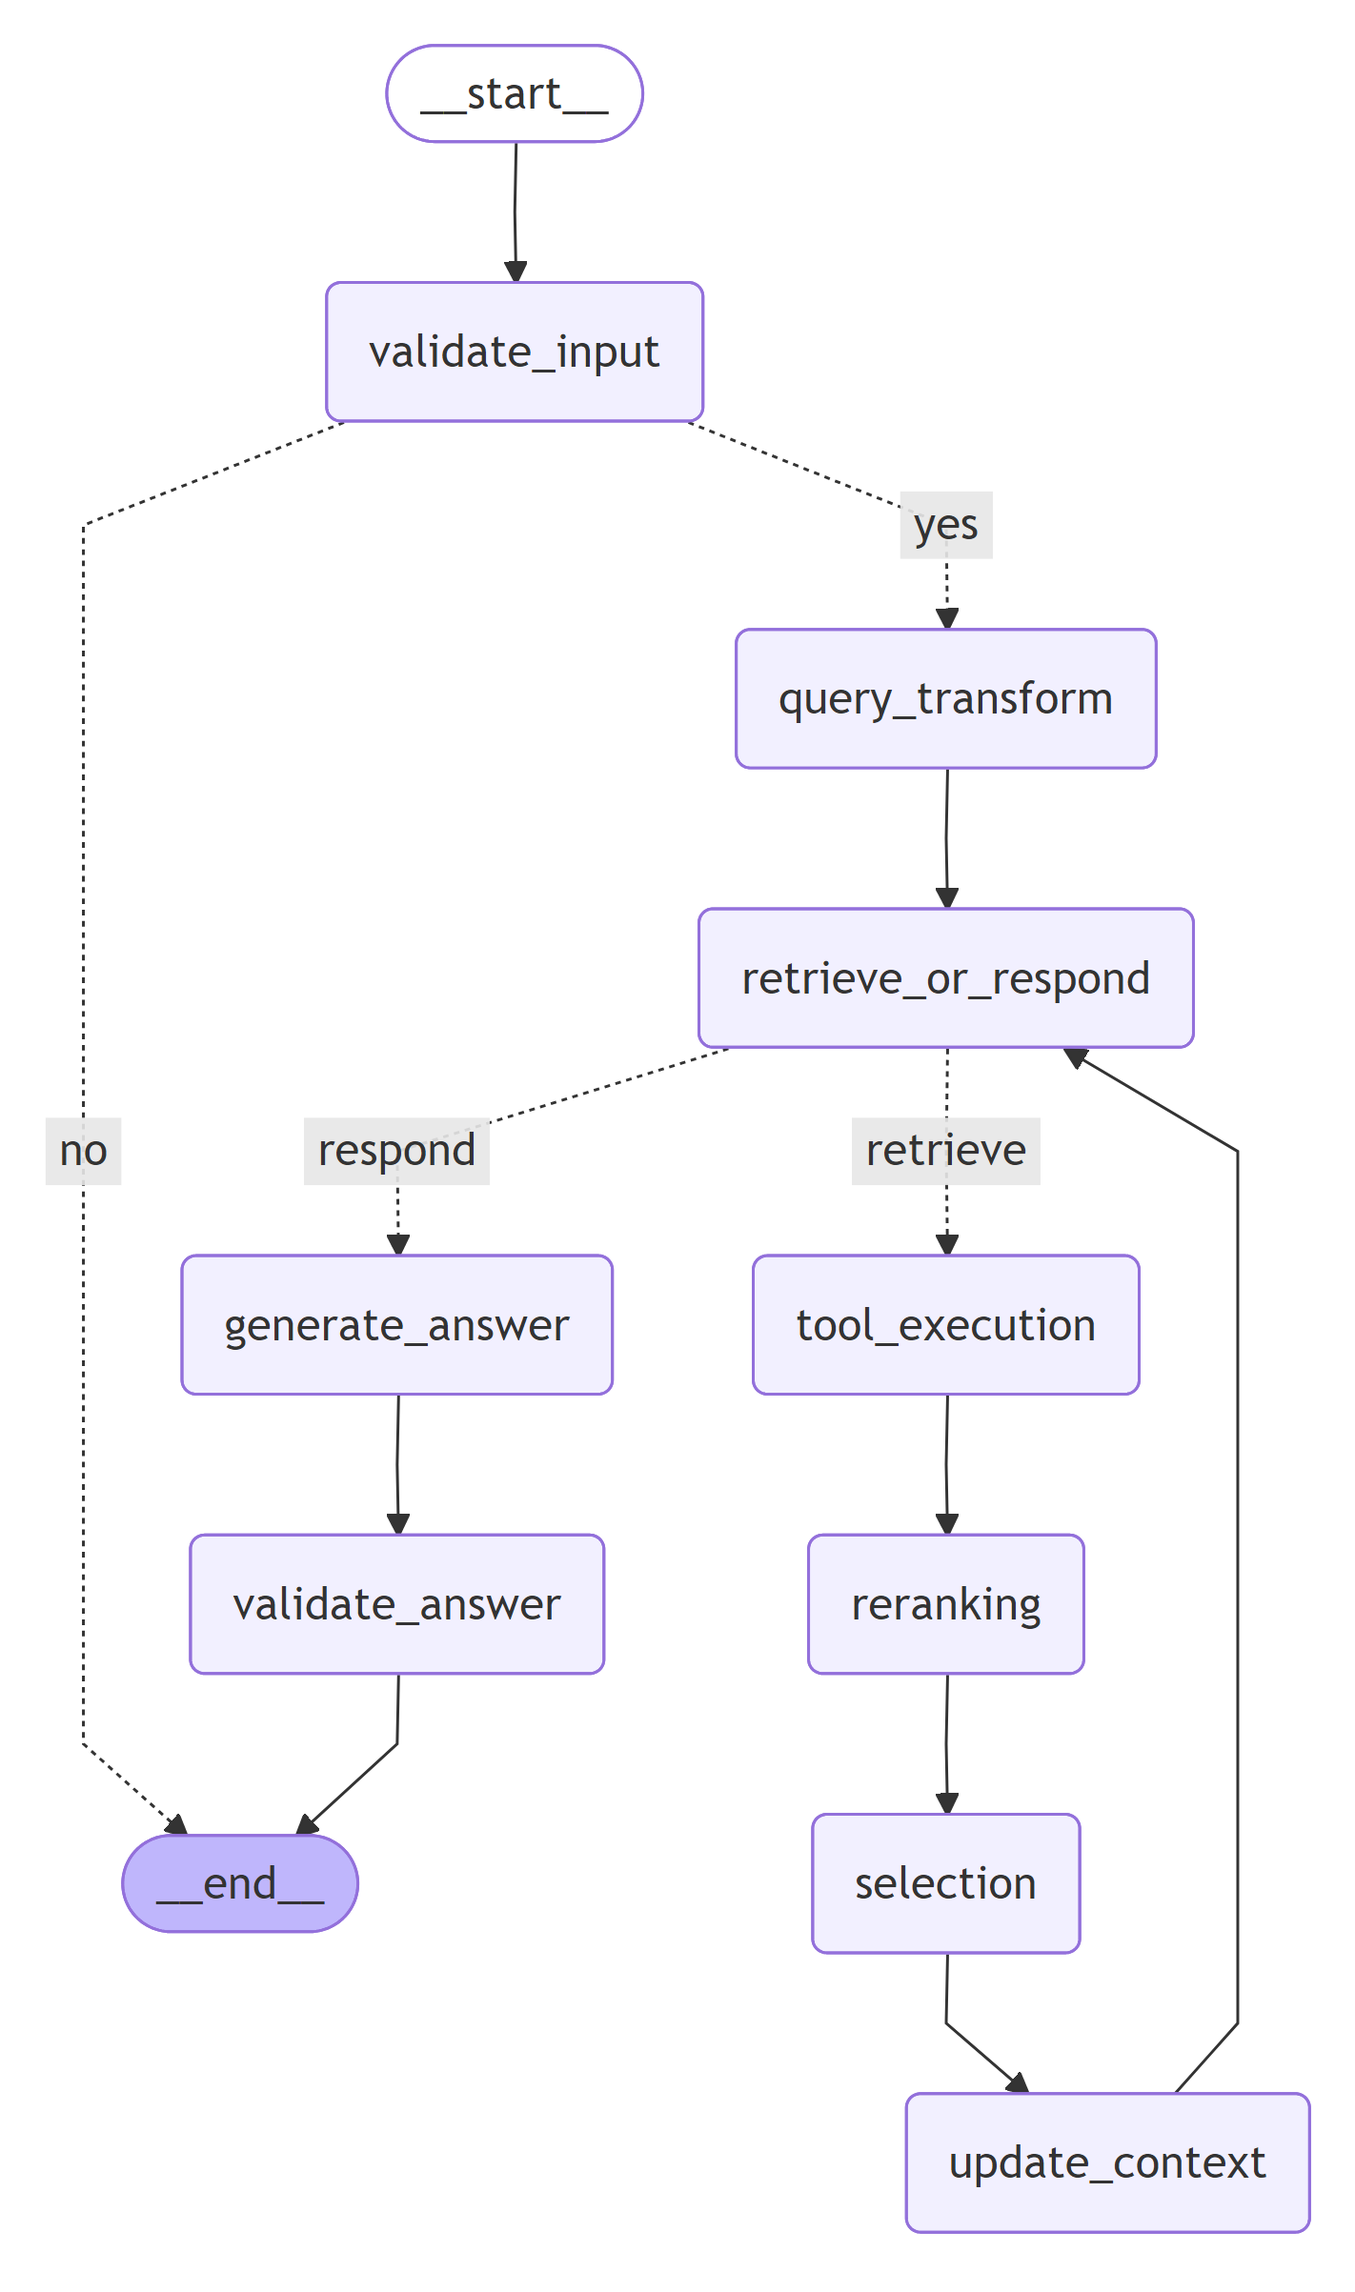
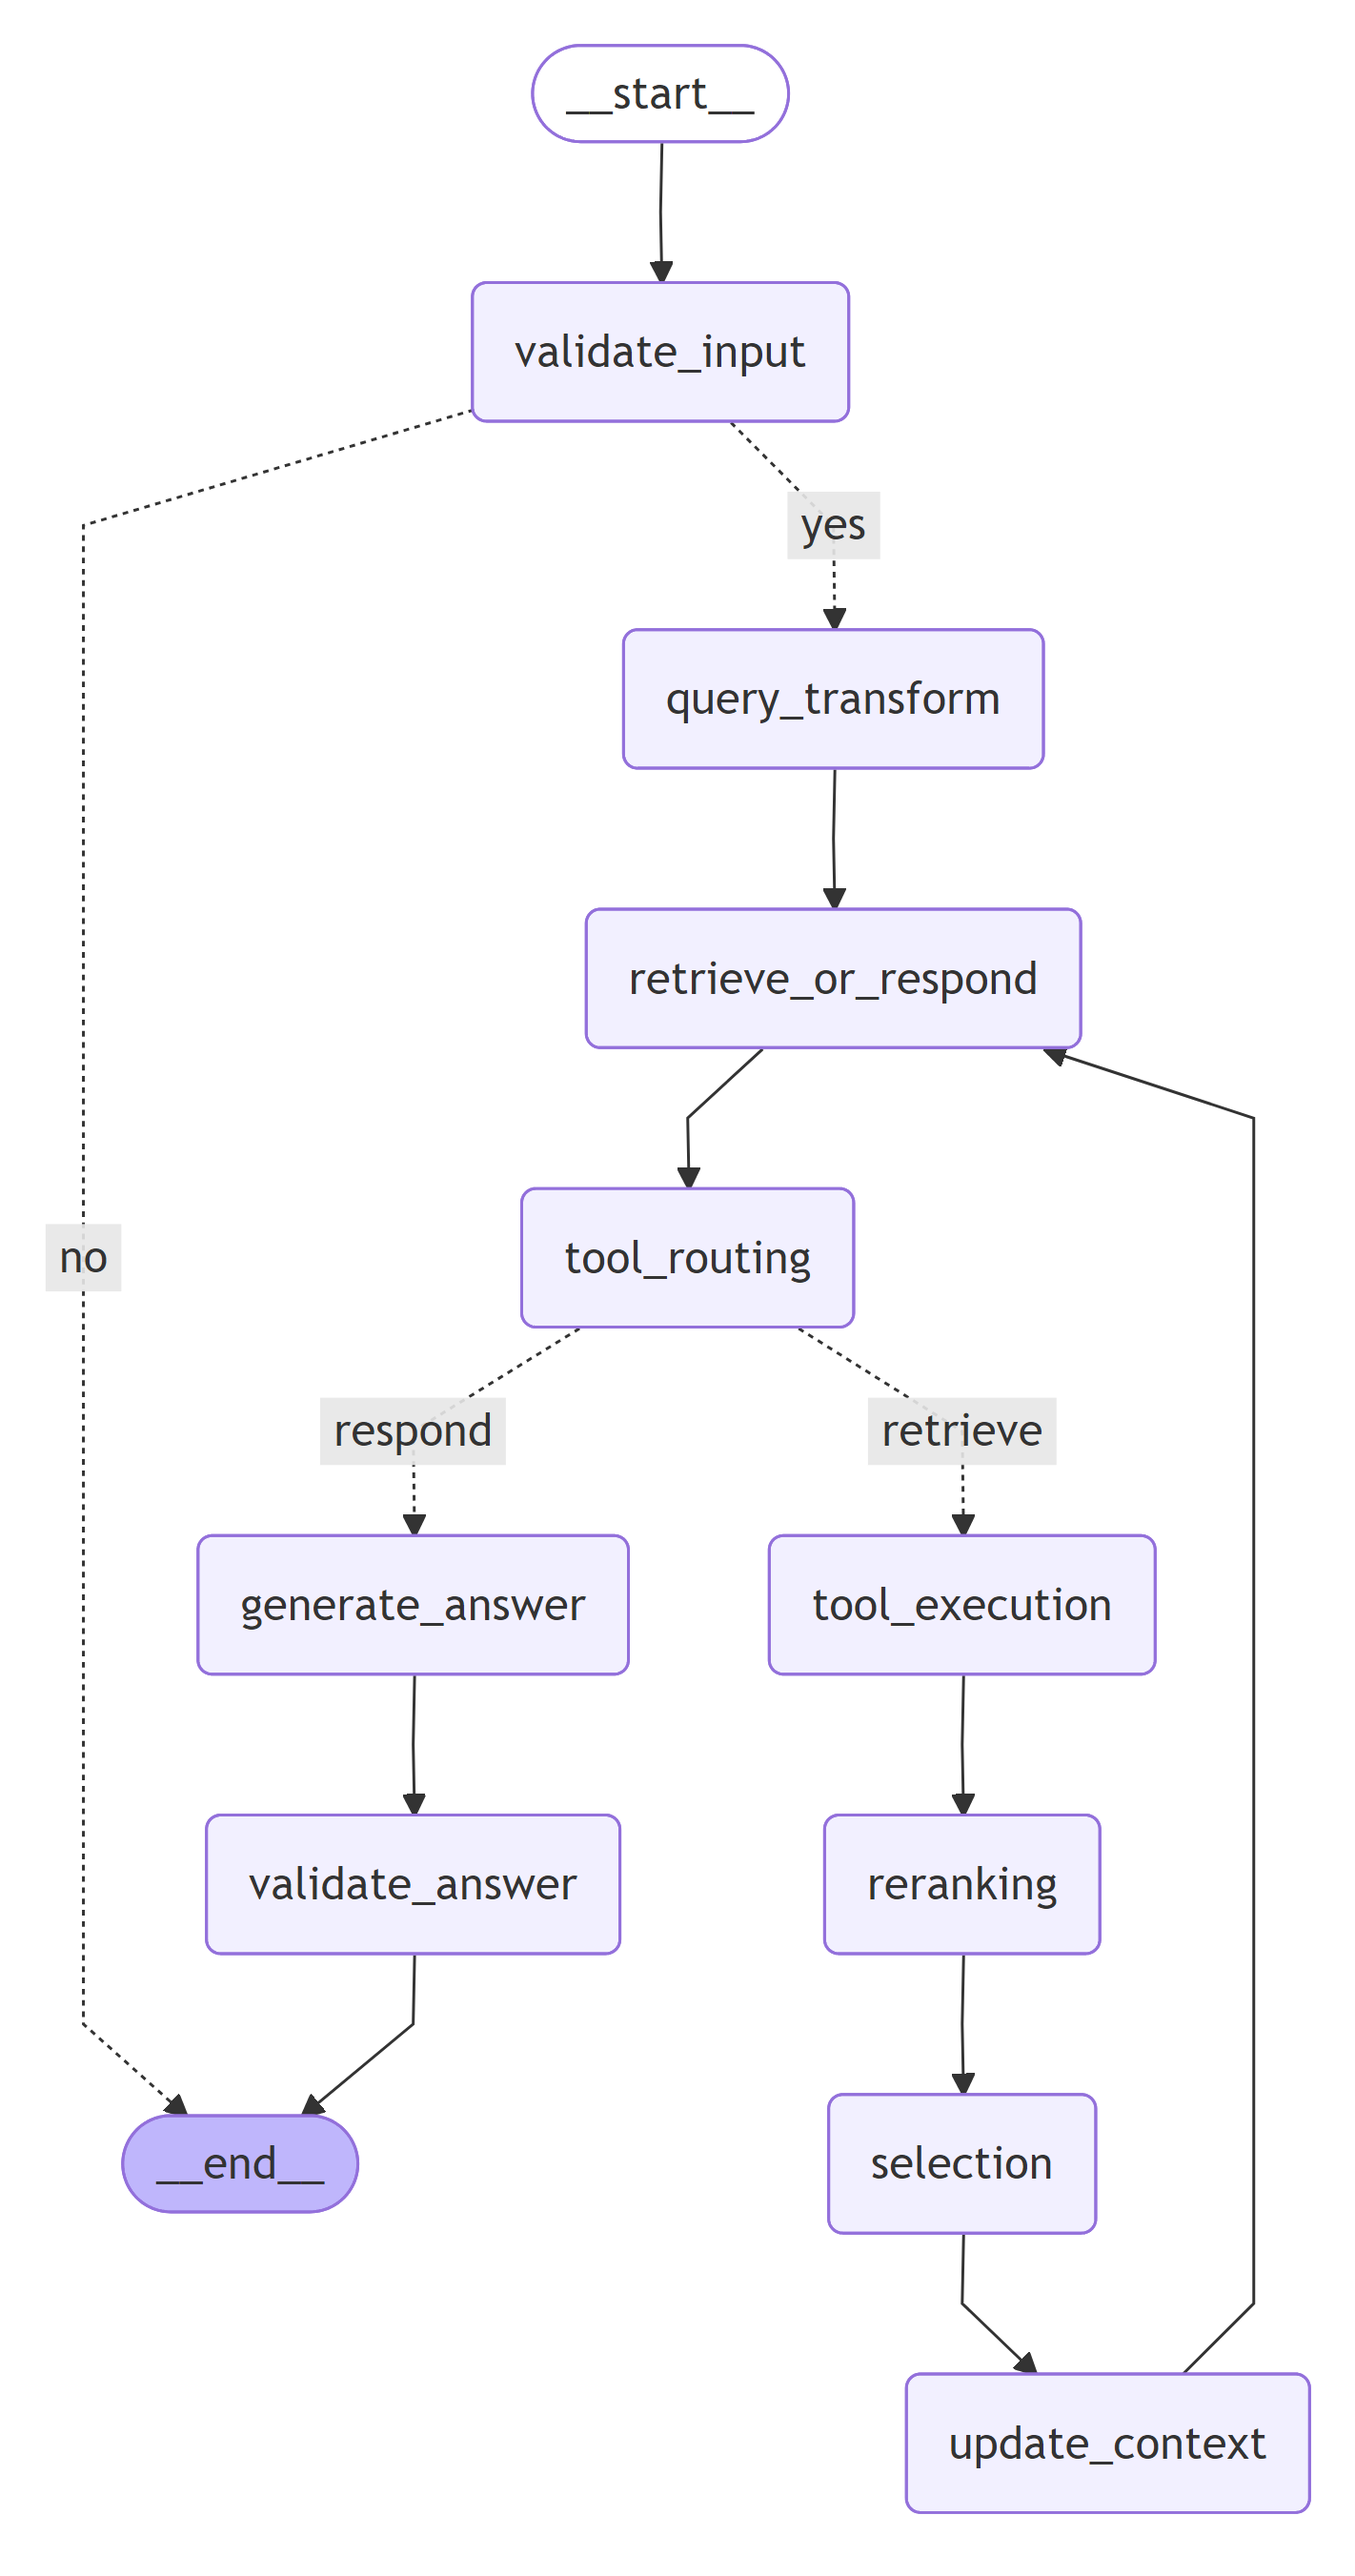
fix hyde

diff --git a/nodes/tool_calling.py b/nodes/tool_calling.py
@@ -6,10 +6,9 @@ from langchain.prompts import PromptTemplate
 from utils.state import AgentState
 from langchain_core.messages import AnyMessage
 
-class ToolCalling:
-
-    def __init__(self, llm: BaseChatModel, prompt: str, tools: List[Union[Callable, BaseTool]]):
-        self._llm = llm.bind_tools(tools)
+class Choice:
+    def __init__(self, llm: BaseChatModel, prompt: str):
+        self._llm = llm
         self._prompt = prompt
 
     def _get_past_tool_calls(self, messages: List[AnyMessage]) -> str:
@@ -18,7 +17,7 @@ class ToolCalling:
             if msg.type == "ai" and hasattr(msg, "tool_calls") and len(msg.tool_calls) > 0:
                 past_tool_calls += str(msg.tool_calls) + "\n"
         return past_tool_calls
-
+    
     def choose(self, state: AgentState) -> AgentState:
         question = state["original_question"]
         context = state["context"]
@@ -27,7 +26,22 @@ class ToolCalling:
         response = self._llm.invoke(prompt)
         state["messages"].append(response)
         return state
-    
+
+class ToolCalling:
+
+    def __init__(self, llm: BaseChatModel, prompt: str, tools: List[Union[Callable, BaseTool]]):
+        self._llm = llm.bind_tools(tools)
+        self._prompt = prompt
+
+    def call(self, state: AgentState) -> AgentState:
+        last_msg = state["messages"][-1]
+
+        if "retrieve" in last_msg.content.lower():
+            prompt = PromptTemplate.from_template(self._prompt).invoke({"query": state["question"]})
+            response = self._llm.invoke(prompt)
+            state["messages"].append(response)
+        return state
+
 
 def tool_condition(state: AgentState) -> Literal["retrieve", "respond"]:
     last_msg = state['messages'][-1]

diff --git a/utils/agent.py b/utils/agent.py
@@ -12,6 +12,7 @@ from nodes.answer import GenerateAnswer
 from nodes.output_validation import AnswerValidation
 from nodes.reranking import Reranking
 from nodes.selection import ChunckSelection
+from nodes.tool_calling import Choice
 
 def build_agent(app_config, prompts):
 
@@ -25,7 +26,8 @@ def build_agent(app_config, prompts):
     # Insert Graph Node
     graph.add_node("validate_input", QueryValidation(llm, prompts["input_check"], topics).validate)
     graph.add_node("query_transform", QueryTransform(app_config["query_transform"], app_config["query_transform_options"], llm, prompts["query_transformation"]).transform)
-    graph.add_node("retrieve_or_respond", ToolCalling(llm, prompts["retrieve_respond"], tools).choose)
+    graph.add_node("retrieve_or_respond", Choice(llm, prompts["retrieve_respond"]).choose)
+    graph.add_node("tool_routing", ToolCalling(llm, prompts["tool_calling"], tools).call)
     graph.add_node("tool_execution", ToolNode(tools))
     graph.add_node("reranking", Reranking(app_config["reranking_strategies"], app_config["reranking_weights"], app_config["reranking_strategies_options"], prompts).rerank)
     graph.add_node("selection", ChunckSelection(app_config["selection_strategies"], app_config["selection_options"]).select)
@@ -43,8 +45,9 @@ def build_agent(app_config, prompts):
         }
     )
     graph.add_edge("query_transform", "retrieve_or_respond")
+    graph.add_edge("retrieve_or_respond", "tool_routing")
     graph.add_conditional_edges(
-        "retrieve_or_respond",
+        "tool_routing",
         tool_condition,
         {
             "retrieve": "tool_execution",

diff --git a/nodes/query_validation.py b/nodes/query_validation.py
@@ -13,7 +13,7 @@ class QueryValidation:
         self._topics = topics
 
     def validate(self, state: AgentState) -> AgentState:
-        question = state["question"]
+        question = state["original_question"]
         prompt_template = PromptTemplate.from_template(self._prompt)
         prompt = prompt_template.invoke({"question": question, "topics": self._topics})
         response = self._llm.invoke(prompt)

diff --git a/nodes/query_transformation.py b/nodes/query_transformation.py
@@ -30,7 +30,7 @@ class QueryTransform:
         if not self._prompt:
             raise Exception("Query transformation prompt not Found")
         
-        question = state["question"]
+        question = state["original_question"]
 
         prompt = PromptTemplate.from_template(self._prompt).invoke({"max_char": self._max_char, "question": question})
 

diff --git a/app.py b/app.py
@@ -26,7 +26,7 @@ if __name__ == "__main__":
     agent = build_agent(app_config, prompts)
 
     # Uncomment the following line, to generate a png image of the agent's structure
-    # save_to_png(agent)
+    save_to_png(agent)
     user_query = input("Enter: ")
     
     stream_response(agent, user_query)

diff --git a/utils/state.py b/utils/state.py
@@ -14,7 +14,7 @@ class AgentState(TypedDict):
     def create(cls, messages=[], question=""):
         return AgentState(
             messages=messages, 
-            question=question,
+            question=None,
             context="",
             chunks=None,
             original_question=question,
